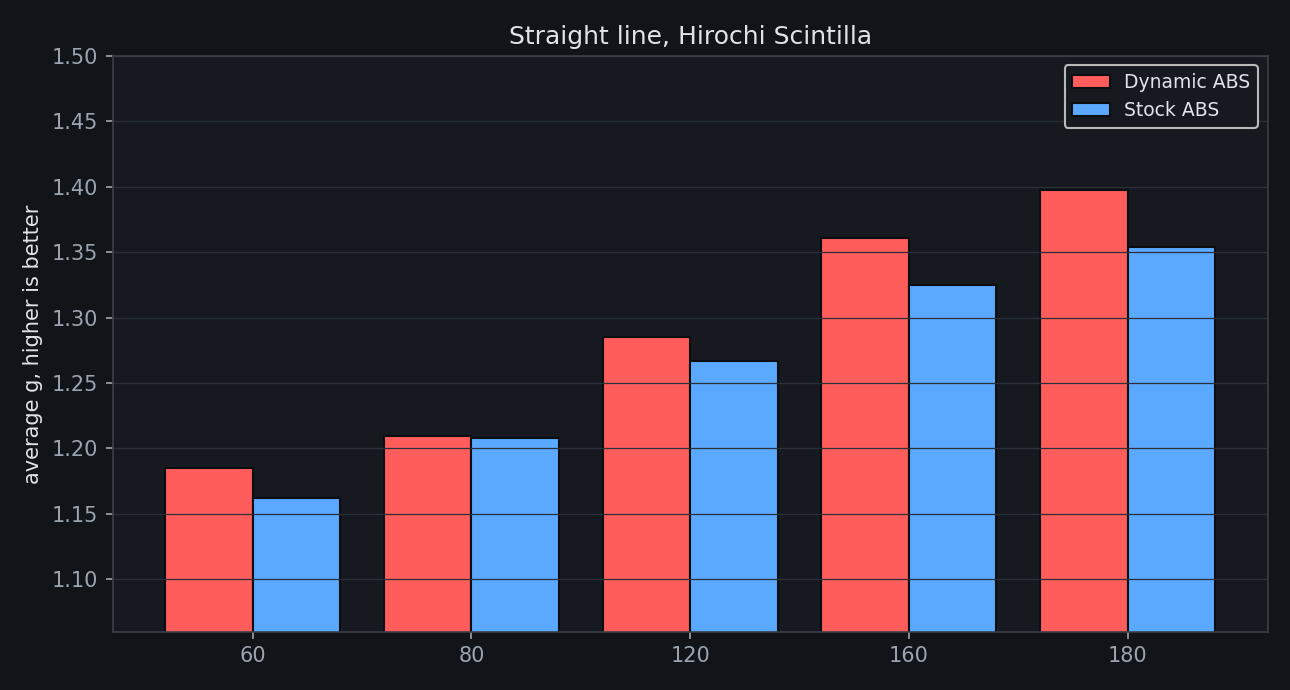
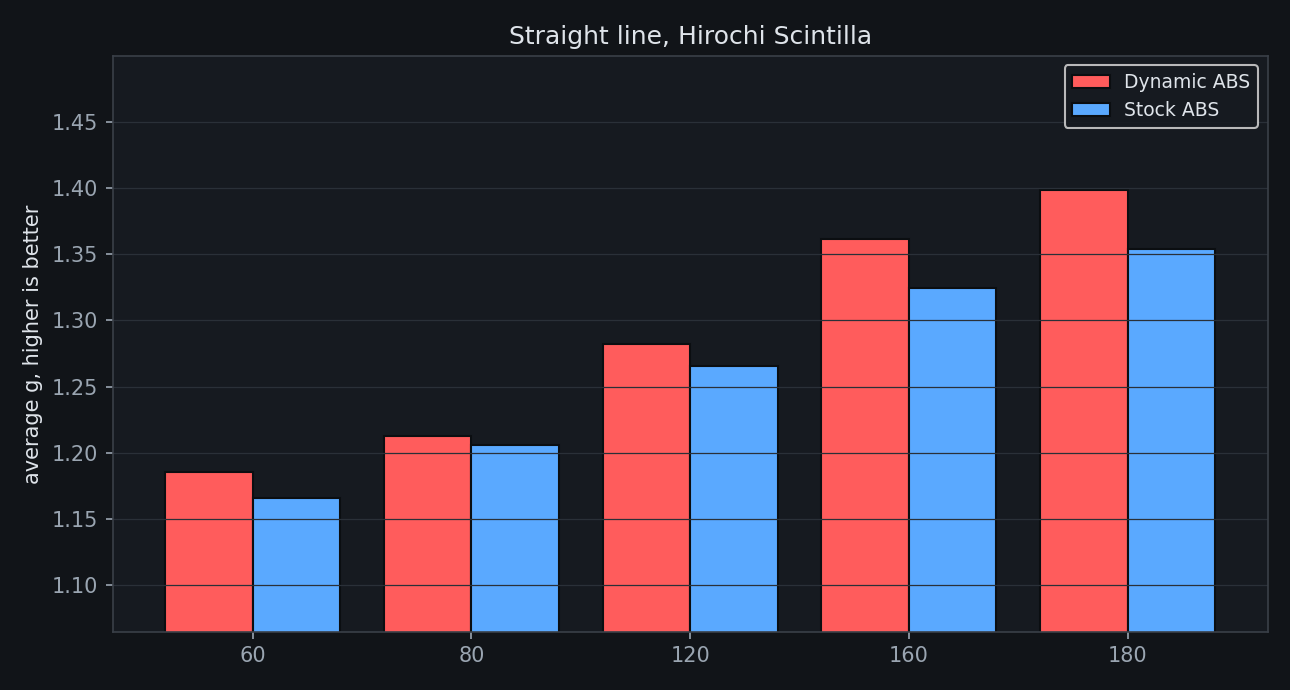
Publish V4.00: results rebuilt with a full respawn before every stop, so no state carries between measurements

diff --git a/README.md b/README.md
@@ -33,11 +33,11 @@ Tested on BeamNG.drive 0.39.4.0.20972 for the surface areas and BeamNG.tech 0.37
 
 | Speed | Average g against stock | Cars |
 |---|---|---|
-| 60 miles per hour | +0.0123 | 4 |
-| 80 miles per hour | +0.0058 | 4 |
-| 120 miles per hour | +0.0142 | 4 |
-| 160 miles per hour | +0.0375 | 2 |
-| 180 miles per hour | +0.0430 | 2 |
+| 60 miles per hour | +0.0128 | 4 |
+| 80 miles per hour | +0.0069 | 4 |
+| 120 miles per hour | +0.0138 | 4 |
+| 160 miles per hour | +0.0382 | 2 |
+| 180 miles per hour | +0.0435 | 2 |
 
 ### Cornering
 
